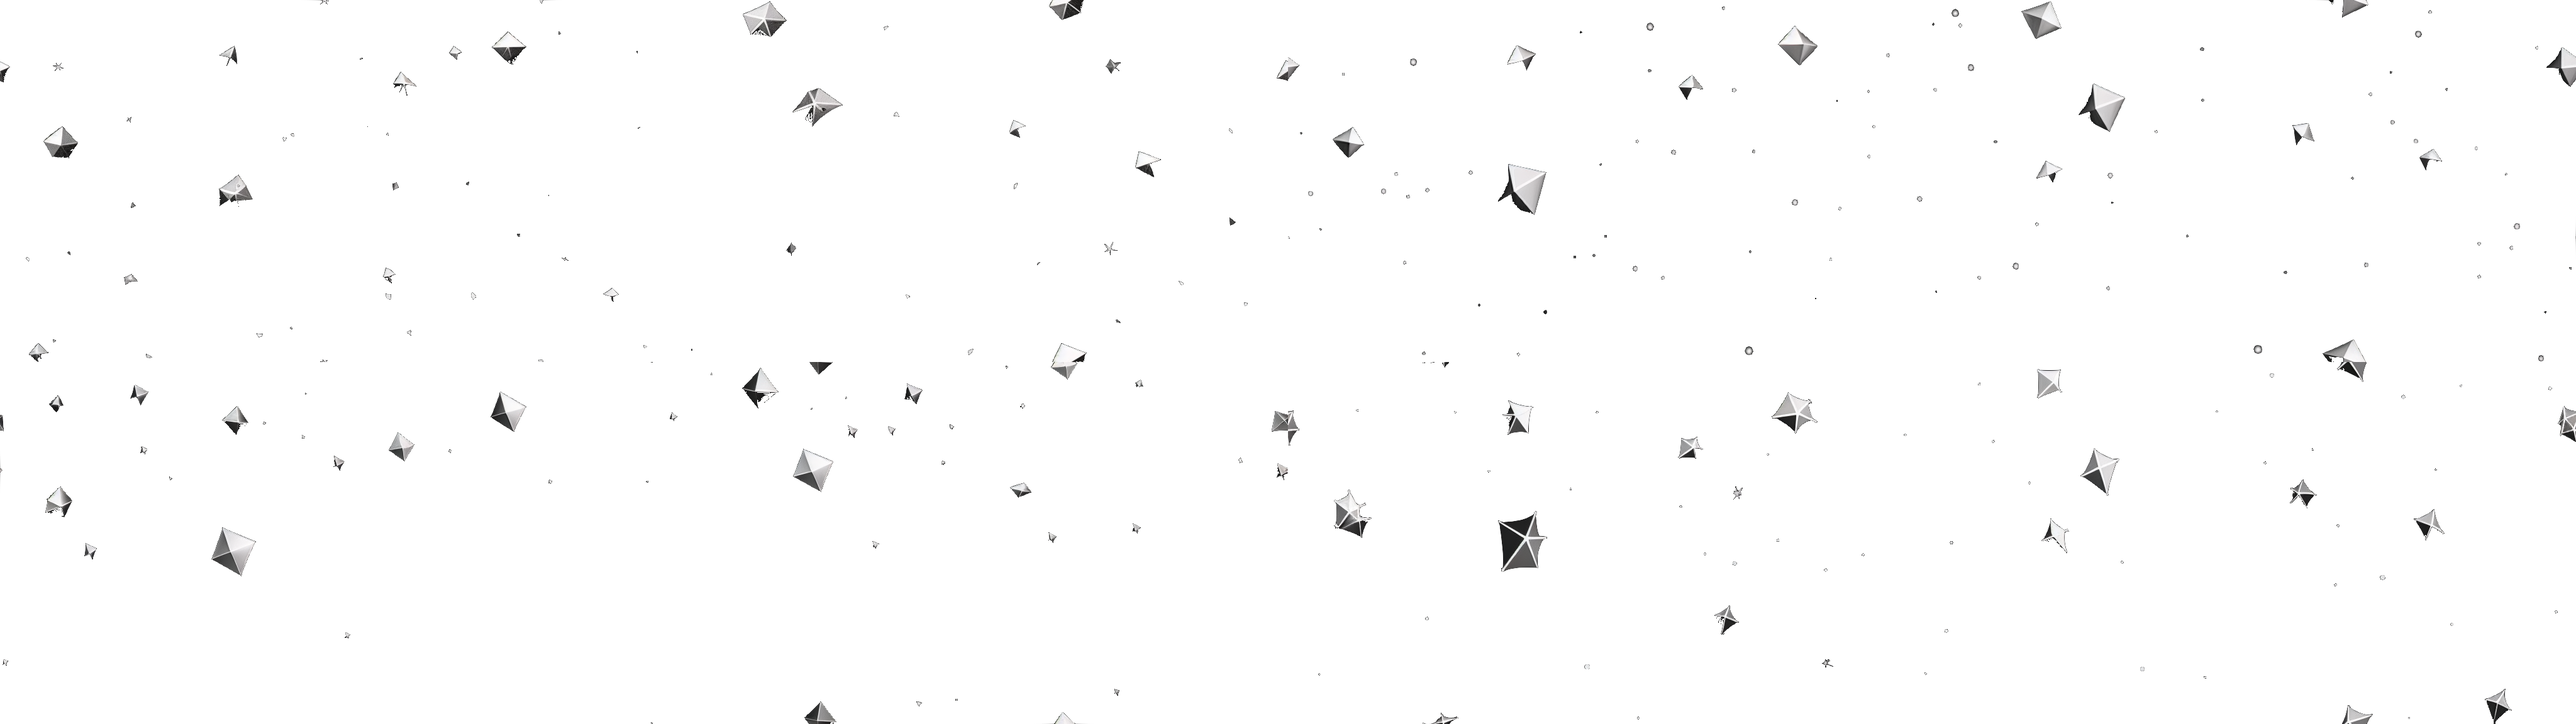
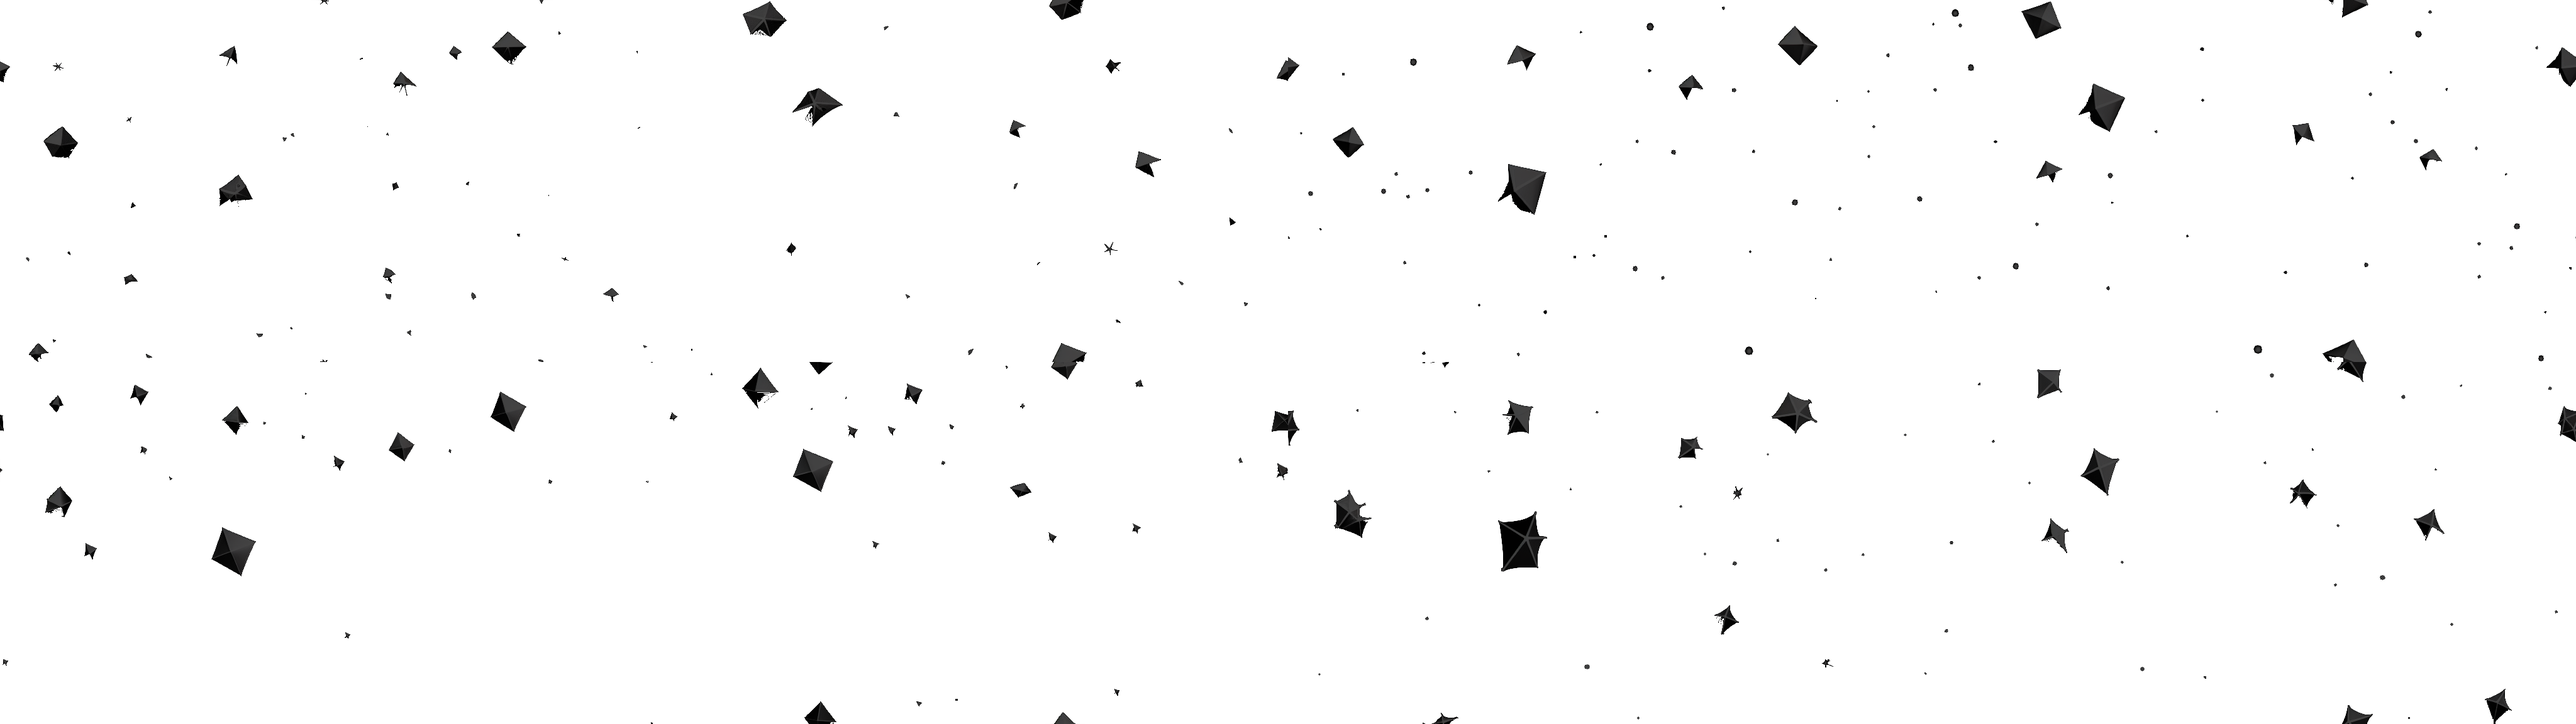
yo
yo

diff --git a/PyGame/State.py b/PyGame/State.py
@@ -204,7 +204,7 @@ class FirstLevelState(State):
         self._middle_ground_go = GameObject(position=(0, 0))
         self._middle_ground_go.add_component(Background(game_world, image_path=self._middle_ground_image_path, scroll_speed=self._middle_ground_scroll_speed))
 
-        self._fore_ground_image_path = "SandTrans.png"
+        self._fore_ground_image_path = "SandTransNeutral.png"
         self._fore_ground_scroll_speed = 150
         self._fore_ground_go = GameObject(position=(0, 0))
         self._fore_ground_go.add_component(Background(game_world, image_path=self._fore_ground_image_path, scroll_speed=self._fore_ground_scroll_speed))
